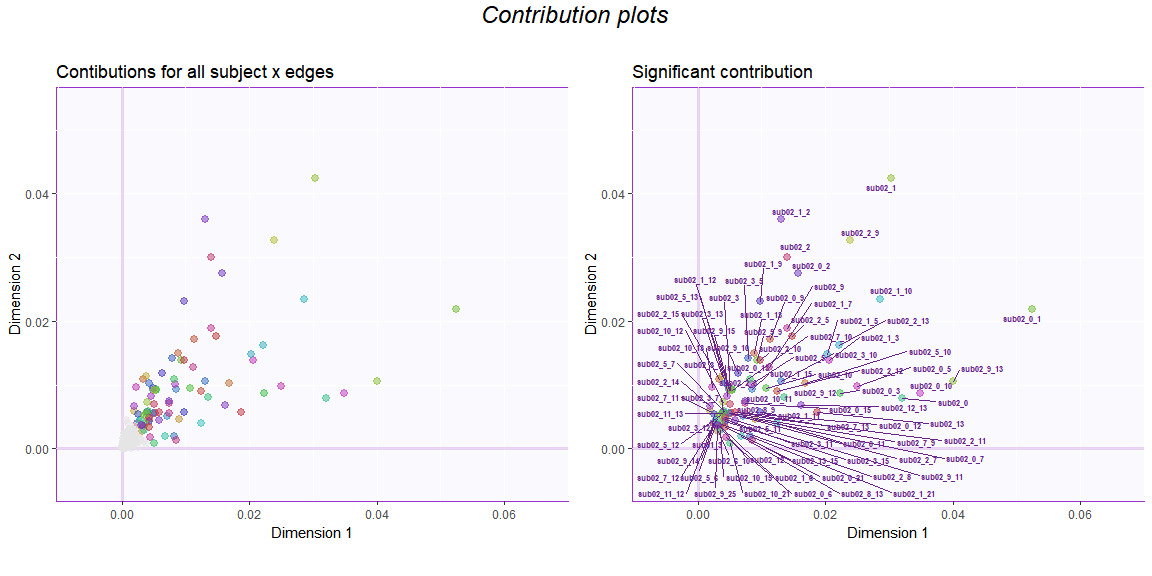
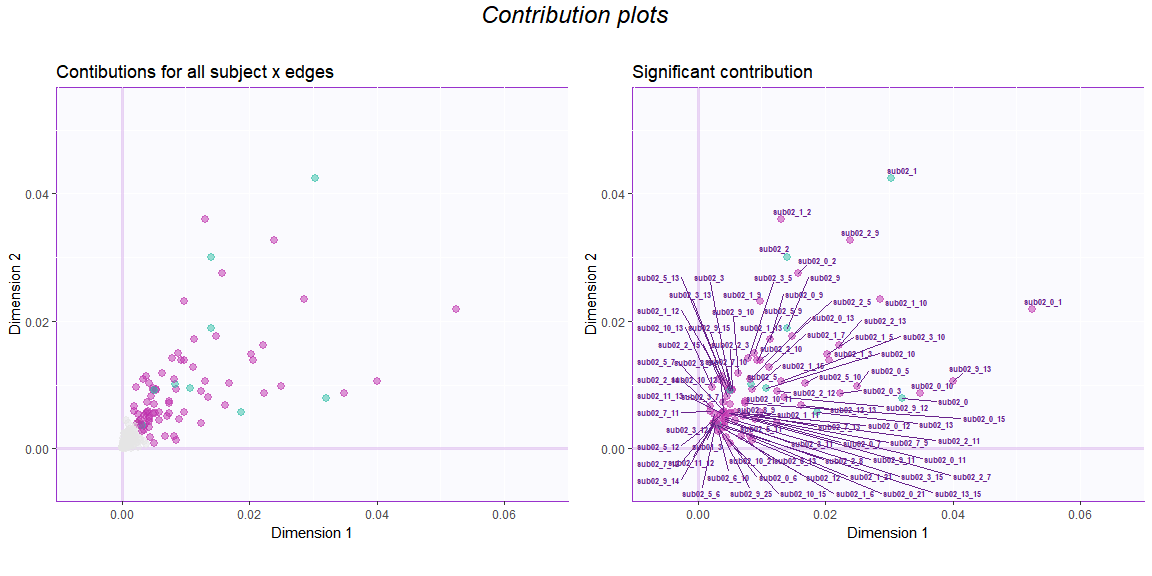
Color contribution by types of network edges

diff --git a/jc/MuSu__NA,_c,_NA_.md b/jc/MuSu__NA,_c,_NA_.md
@@ -76,10 +76,12 @@ Then, the preprocessed data are decomposed by the
 SVD:
 
 ``` r
-svd.res <- epPCA(t(gt_preproc),scale = FALSE, center = FALSE, DESIGN = gtlabel$subjects_edge_label, make_design_nominal = TRUE, graphs = FALSE)
+svd.res <- epPCA(t(gt_preproc),scale = FALSE, center = FALSE, DESIGN = gtlabel$subjects_wb, make_design_nominal = TRUE, graphs = FALSE)
 ```
 
 ##### Results:
+
+###### Scree plot
 
 First, the scree plot illustrates the eigen value with percentage of
 explained variance of each component. The results showed that there are
@@ -88,8 +90,14 @@ more than average (i.e., 1/10).
 
 ![](MuSu__NA,_c,_NA__files/figure-gfm/scree-1.png)<!-- -->
 
-Before checking the factor scores, we first plot the contribution to
-check the importance of each edge
+###### Contributions
+
+Before checking the factor scores, we first plot the contributions to
+check the importance of network edges. The important edges are defined
+as those that with significant mean contribution to both components 1
+and 2.
+
+We first compute the contribution and find the important edges:
 
 ``` r
 #--- get the contribution of each component
@@ -103,11 +111,22 @@ absCtrEdg <- as.matrix(c_edge) %*% diag(svd.res$ExPosition.Data$eigs)
 edgCtr12 <- (absCtrEdg[,1] + absCtrEdg[,2])/(svd.res$ExPosition.Data$eigs[1] + svd.res$ExPosition.Data$eigs[2])
 #--- the important variables are the ones that contribute more than or equal to the average
 importantEdg <- (edgCtr12 >= 1/length(edgCtr12))
+#--- find the between/within description for each network edge
+net.edge <- matrix(NA, nrow = nrow(c_edge),ncol = 1)
+for (i in 1:nrow(c_edge)){
+  edge2check <- rownames(c_edge)[i]
+  net.edge[i,1] <- unique(gtlabel[which(gtlabel$subjects_edge_label == edge2check),"subjects_wb"])
+}
+#--- create color based on the between/within description for network edges
+net.edge.col <- net.edge %>% makeNominalData %>% createColorVectorsByDesign
+rownames(net.edge.col$gc) <- sub(".","",rownames(net.edge.col$gc))
 #--- color for networks
-col4ImportantEdg <- unique(svd.res$Plotting.Data$fi.col) # get colors
+col4ImportantEdg <- net.edge.col$oc # get colors
 col4NS <- 'gray90' # set color for not significant edges to gray
 col4ImportantEdg[!importantEdg] <- col4NS # replace them in the color vector
 ```
+
+Then the contributions are shown in plots
 
 ``` r
 ciplot_all <- createFactorMap(c_edge,
